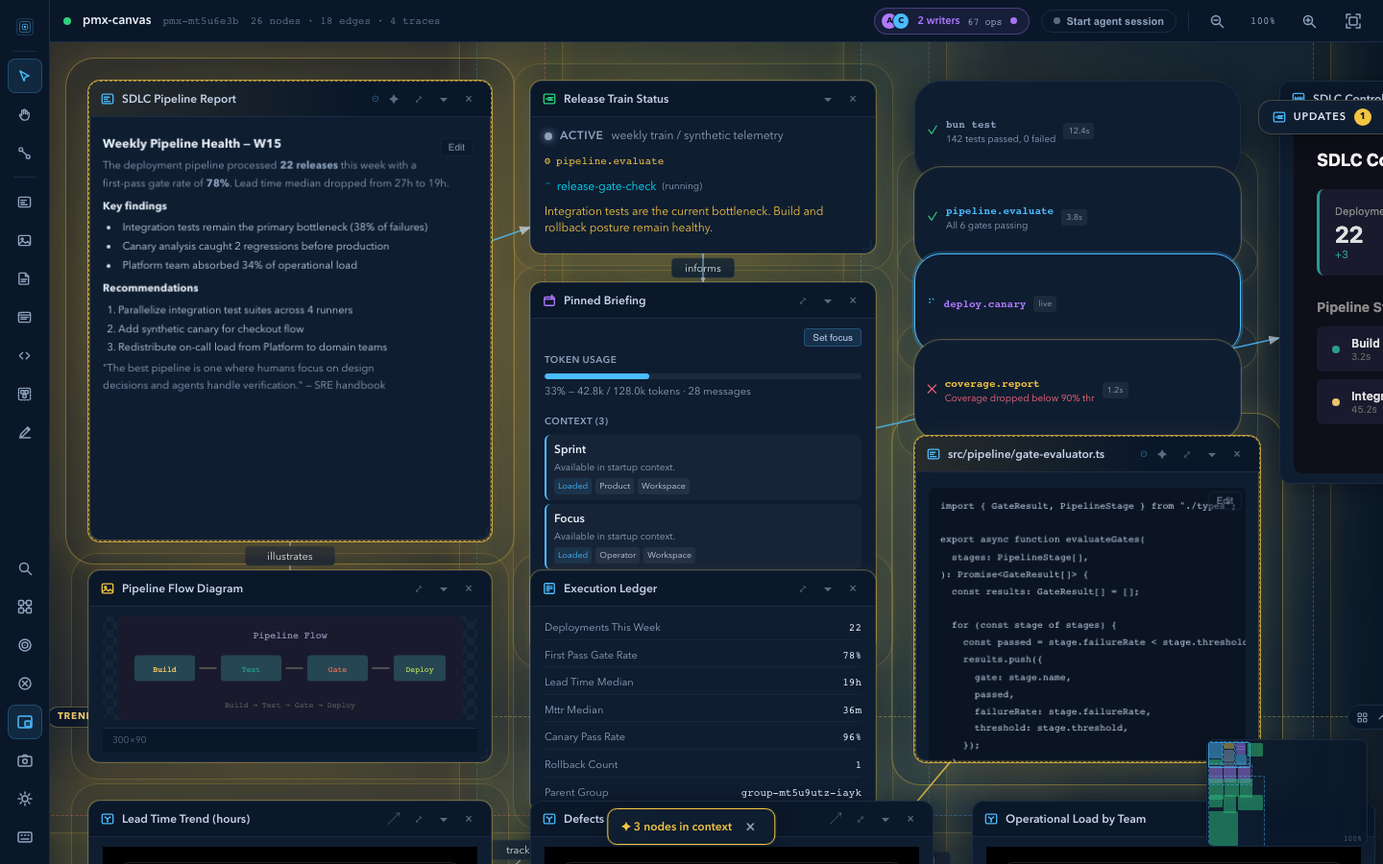
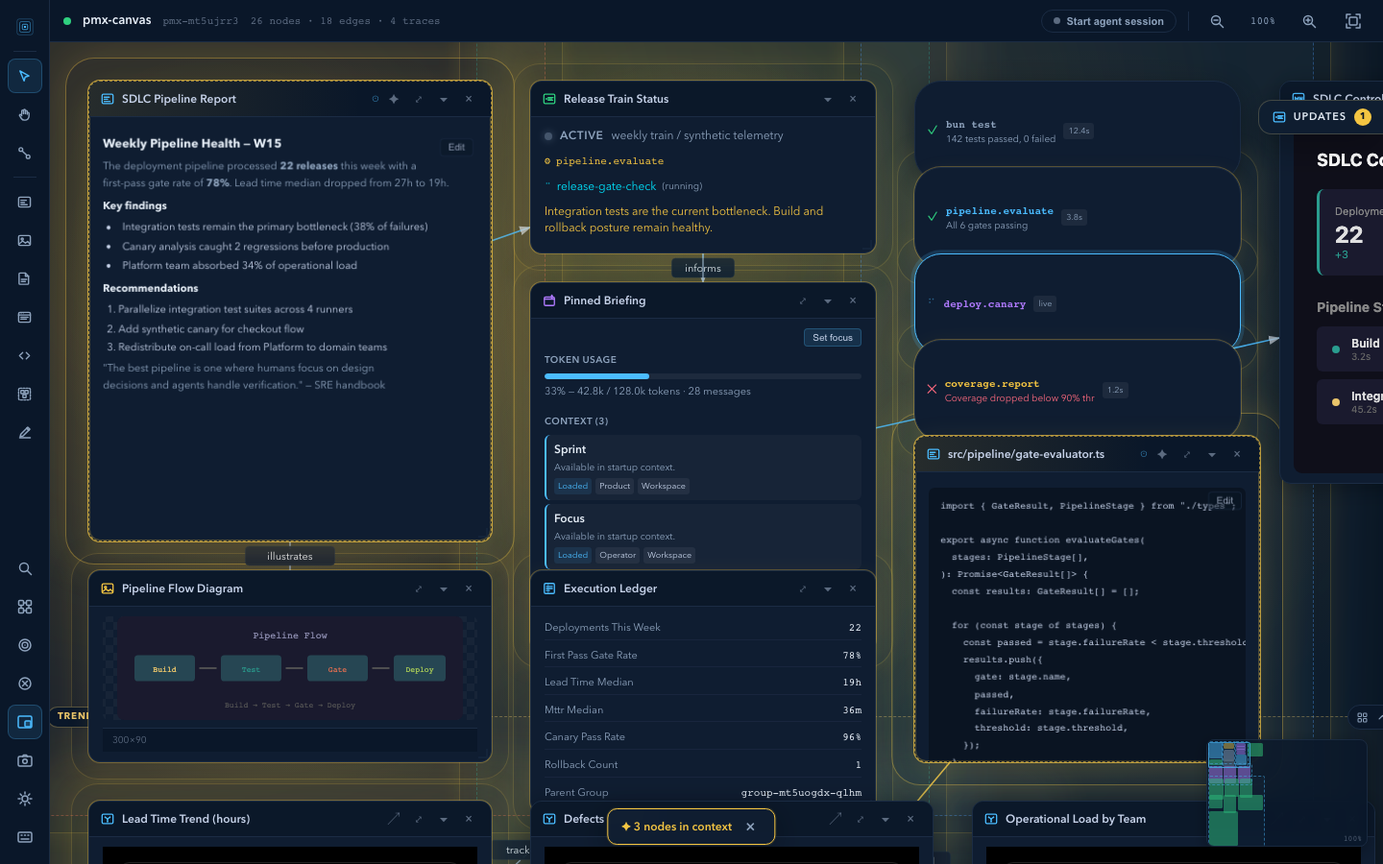
docs: skills refresh for the redesigned board (rail-chrome-v2 phase 9)
Every skill and contract doc now describes the board as it is after phases
1–8, so an agent reading a skill cold gets the current chrome and rules:

- skills/pmx-canvas/SKILL.md: operating step 6 is a short pointer to a new
  "Sessions & the human" section — the three board modes (quiet, external
  steering, focus session), what a session asks of the agent (detach for the
  receipt, 403 = scope fence, 409 = a human holds the node, held gates are
  non-approvals, your latest edit can be undone, where steering arrives) —
  and Browser Workflows rewritten for the selection bar, groups v2, the
  Connect tool, the History drawer, the minimap, the connection banner,
  human cursors and keyboard traversal.
- references/full-reference.md: the redesigned chrome, presence and groups
  selectors; nodes carry data-node-id now.
- pmx-canvas-orchestration: a Presence section (the orchestrator attaches,
  agentId per sub-agent, fence / 409 / held etiquette, the other places
  steering comes from).
- pmx-canvas-testing: presence and session e2e patterns (reset as the
  workbench, assert SSE frames as received, two-tab tests, what the Browser
  pane cannot drive).
- docs/mcp.md and docs/cli.md lose the last toolbar wording; CLAUDE.md and
  AGENTS.md gain human presence + the edit lock, the actor-tagged shared
  undo stack, and the moved kind-color record.

The demo fixture was regenerated through the API and the README screenshot
[…]

diff --git a/tests/e2e/showcase.pw.ts b/tests/e2e/showcase.pw.ts
@@ -6,9 +6,12 @@ import { expect, test, type APIRequestContext } from '@playwright/test';
 
 // ── Helpers ──────────────────────────────────────────────────
 
+/** The showcase seeds the board AS THE HUMAN: its writes must not read as an external agent. */
+const WORKBENCH = { 'x-pmx-workbench': '1' };
+
 async function clear(request: APIRequestContext): Promise<void> {
-  await request.post('/api/canvas/clear');
-  await request.post('/api/canvas/context-pins', { data: { nodeIds: [] } });
+  await request.post('/api/canvas/clear', { headers: WORKBENCH });
+  await request.post('/api/canvas/context-pins', { data: { nodeIds: [] }, headers: WORKBENCH });
 }
 
 type PwRequest = APIRequestContext;
@@ -32,7 +35,7 @@ async function postOrThrow<T extends Record<string, unknown>>(
   idField?: keyof T,
   context?: string,
 ): Promise<T> {
-  const r = await request.post(endpoint, { data: body });
+  const r = await request.post(endpoint, { data: body, headers: WORKBENCH });
   const payload = (await r.json()) as T & { ok?: boolean; error?: string };
   const idValue = idField ? (payload[idField] as unknown) : 'ok';
   const ok = r.ok() && (idField ? typeof idValue === 'string' && idValue.length > 0 : true);
@@ -55,7 +58,7 @@ async function addNode(request: PwRequest, body: Record<string, unknown>): Promi
 }
 
 async function patchNode(request: PwRequest, id: string, body: Record<string, unknown>): Promise<void> {
-  await request.patch(`/api/canvas/node/${id}`, { data: body });
+  await request.patch(`/api/canvas/node/${id}`, { data: body, headers: WORKBENCH });
 }
 
 async function addEdge(request: PwRequest, body: Record<string, unknown>): Promise<string> {
@@ -1026,6 +1029,7 @@ body { margin: 0; background: #0f0f1a; }
 
   await request.post('/api/canvas/context-pins', {
     data: { nodeIds: [article, codeFile, gateBoard] },
+    headers: WORKBENCH,
   });
 
   // ═══════════════════════════════════════════════════════════

diff --git a/skills/pmx-canvas/SKILL.md b/skills/pmx-canvas/SKILL.md
@@ -49,30 +49,11 @@ Humans curate agent context by pinning nodes; agents read that curation through
    floor, not a replacement: only an explicit signal gives the human a real pre-mutation veto
    window, your reasoning (`reason`), and staged multi-step previews. Batch and browser-human
    actions never auto-ghost.
-6. **Attach a session so the human can see you (0.4.8).** At the start of board work call
-   `canvas_ax_state { action: "set-presence", attached: true, label: "<who you are>" }` and at
-   the end `{ action: "set-presence", attached: false }`. While attached, the canvas shows your
-   cursor on the node you last touched plus a phase chip, and every write you make through MCP or
-   HTTP is attributed to your session automatically — no per-call labelling needed. The human
-   also gets a session panel listing your work items, approval gates (Approve / Reject live
-   there — a rejection reaches you as steering; an unanswered gate auto-holds after its TTL,
-   which is also a "do not proceed") and the timeline. The human may also fence you to a
-   region: writes outside `policy.scope` come back as 403 — ask, don't retry. A **409** on a
-   node write means a human is holding that node right now (dragging or editing): requeue the
-   change and retry in a moment; if you had signalled an intent on it, it was vetoed and a
-   `yield` event explains why. Report
-   `phase: "thinking"` before a long reasoning stretch if your host gives you a hook for it;
-   `tooling` is derived from your writes. Hosts with adapters (the Copilot extension) attach
-   for you. Without an attached session the board stays a plain canvas: your writes still show
-   as ghosts, but there is no cursor and no session chrome. Attaching over a non-empty board
-   saves a `Before session · …` snapshot, and detaching hands the human a receipt (work items
-   done / vetoed, a diff against that snapshot, one-click restore) — so always detach
-   explicitly rather than letting the session idle out. The human can also start a session
-   from the board's *Start agent session* button; your transport writes are then attributed
-   to it without any call on your side. Without a session your writes still reach the human:
-   the board shows a passive "external writers" indicator with an activity feed listing each
-   write under your label — identify yourself (`PMX_CANVAS_AGENT_SOURCE`, or `x-pmx-source` on
-   HTTP) so the feed and the writers sheet name you rather than the transport.
+6. **Attach a session so the human can see you (0.4.8+).** Start board work with
+   `canvas_ax_state { action: "set-presence", attached: true, label: "<who you are>" }` and end
+   it with `{ attached: false }` — detaching hands the human a receipt. Everything the session
+   gives you and asks of you (cursor + phase chip, the session panel, steering, the scope fence's
+   403s, the human edit lock's 409s, unattended approvals) is in **Sessions & the human** below.
 7. **Mutate through current composites.** Prefer the 16 composite MCP tools below.
 7. **Arrange and validate.** After batch changes, use `canvas_view { action: "arrange" }` when
    appropriate and always finish with `canvas_query { action: "validate" }`.
@@ -256,6 +237,47 @@ Do not confuse context pinning with **Lock position**, which only excludes a nod
 Every node type, including `status`, can be removed through `canvas_node { action: "remove" }`, the
 title-bar × control, or the **Close** context-menu action.
 
+## Sessions & the human
+
+The board has three modes, all gated on one fact — whether a session is attached:
+
+- **Quiet board** (nobody attached, nobody writing): a plain canvas. Your writes still show as
+  ghosts, nothing else changes.
+- **External steering** (you write with no session attached): the top bar shows a passive
+  writers indicator with an activity feed listing each write under your label, plus a
+  connected-writers sheet. Identify yourself (`PMX_CANVAS_AGENT_SOURCE`, or `x-pmx-source` on
+  HTTP) so the feed names you, not the transport. Pending explicit intents carry an inline Veto
+  there.
+- **Focus session** (attached): your cursor sits on the node you last touched with a phase chip
+  (`idle` / `thinking` / `tooling` / `waiting-approval`); every MCP/HTTP write is attributed to
+  your session automatically (pass `agentId` only to keep a sub-agent separate); the human gets
+  the session panel (work items, approval gates, timeline of your tool runs, board writes,
+  evidence and steering), a command bar that posts steering you read on your next turn, and a
+  context-budget meter. Report `phase: "thinking"` before a long reasoning stretch if your host
+  gives you a hook; `tooling` is derived from your writes. Hosts with adapters (the Copilot
+  extension) attach for you; the human can also start a session from the board's *Start agent
+  session* button and your transport writes are attributed to it.
+
+What the session asks of you:
+
+- **Detach explicitly** (`attached: false` or a `session-end` activity). Attaching over a
+  non-empty board saved a `Before session · …` snapshot; detaching emits the receipt (items
+  done / vetoed, a diff against that snapshot, one-click restore) — an idle timeout delays it.
+- **403 = outside the scope fence.** The human may fence you to a region (`policy.scope`): writes
+  outside it are refused with a reason naming the node or position. Read `policy.scope` in
+  `canvas://ax-context`, ask the human to widen it, never retry blindly. The fence is the
+  human's: `set-policy` does not take `scope`.
+- **409 = a human is holding that node** (dragging or editing it right now). Requeue the change
+  and retry in a moment. If you had signalled an intent on it, it was vetoed — a `yield` timeline
+  event says who took over.
+- **A gate you do not answer auto-holds** (`held`, default TTL 5 min). `held` is a non-approval:
+  do not proceed; the human can reopen it from the panel. A rejection reaches you as steering.
+- **Your latest edit can be undone from the panel.** One shared undo stack: when the human undoes
+  it you get steering ("Undid your edit: …"); treat the board as the truth, not your last write.
+- **Steering arrives as `steering-message` rows** in `canvas://ax-timeline` (or claim them via
+  `canvas_ax_delivery`). The command bar, gate rejections, undo and take-overs all speak through
+  it.
+
 ## Browser Workflows
 
 Use the visible workbench when the human is actively curating layout:
@@ -263,21 +285,42 @@ Use the visible workbench when the human is actively curating layout:
 - Drag nodes to move them.
 - Drag empty space to lasso-select (Select tool, the default); hold Space or pick the rail's Pan
   tool to pan instead — the Pan tool pans even when the drag starts on a node.
-- Use the selection bar for Pin as context, Group, Connect, and Clear.
+- The selection bar (floating bottom-center) offers count, align left/top, distribute,
+  auto-arrange, Group (G), Connect, Pin as context, delete and clear; selected nodes show an
+  accent outline with corner handles.
 - Right-click a node for context pinning, position locking, focus, collapse, connect, refresh,
   open, close, and type-specific actions.
-- Drop files or URLs to create matching nodes.
+- Drop files or URLs to create matching nodes; an empty board shows starter actions (new note,
+  pick files, paste a link, start an agent session).
 - Double-click markdown to edit inline.
-- Use rail snapshots (camera button in the left tool rail) before experiments and restore only after confirmation.
-- The chrome is a persistent 52px left tool rail plus a slim 44px top bar (0.4.8, replacing the
-  floating HUD). The rail carries the tools (Select V, Pan Space), node creation (markdown M,
-  image I, file Shift+F, webpage W, HTML surface H, group G, annotate A — a popover with draw /
-  text / eraser), and utilities: search (Cmd+K), arrange, trace, minimap, snapshots, the theme
-  picker (nine themes: dark, light, high-contrast, midnight, sepia, arctic, ember, forest, volt),
-  and shortcuts (?). The top bar holds the connection dot, workspace title, and the zoom cluster
+- **Groups** are frames with the name pill and an action cluster (auto-arrange children, collapse,
+  ⋯ rename / ungroup / pin all) on the top edge. Membership changes only on release while the
+  "release to add to <group>" pill shows (Esc keeps it out); dragging a child fully out offers
+  "release to remove". A collapsed group is a chip that hides its children (edges to them draw
+  to the chip). G groups the selection, Shift+G ungroups.
+- **Edges**: drag from a node port, or pick the rail's Connect tool (C) and drag from anywhere on
+  a node; the target lights up, Esc cancels, L asks for a label on release.
+- The **History** drawer (rail camera button, or the receipt's Full log) lists snapshots and
+  agent sessions in one timeline; save a snapshot there before experiments and restore only after
+  confirmation. Ctrl/Cmd+Z and Shift+Z work the shared undo stack.
+- The **minimap** (bottom-right of the canvas) is a true-scale map; hover magnifies it, click
+  jumps, drag pans. A banner under the top bar reports a dropped stream (reconnecting) or a
+  post-reconnect resync; edits still save over HTTP meanwhile.
+- Other open tabs appear as green cursors with a name tag (`/workbench?name=mia` sets yours);
+  a node you drag is locked for agents until you release it.
+- The chrome is a persistent 52px left tool rail plus a slim 44px top bar (0.4.8+). The rail
+  carries the tools (Select V, Pan Space, Connect C), node creation (markdown M, image I, file
+  Shift+F, webpage W, HTML surface H, group G, annotate A — a popover with draw / text / eraser),
+  and utilities: search & commands (Cmd+K — actions with shortcuts, then jump-to-node), arrange,
+  trace, minimap, history, the theme picker (nine themes: dark, light, high-contrast, midnight,
+  sepia, arctic, ember, forest, volt), and shortcuts (?). The top bar holds the connection dot,
+  workspace title, the session chip / gate badge / context meter while a session is attached
+  (or the external-writers indicator and *Start agent session* otherwise), and the zoom cluster
   (zoom out, % label = reset, zoom in, fit F). Every rail button's `title` names its shortcut.
-  On viewports ≤1180px the top bar drops its meta text (board id, counts); every control stays in
-  the rail at any width — there is no separate mobile menu.
+  On viewports ≤1180px the top bar drops its meta text and the session panel becomes a drawer;
+  every control stays in the rail at any width — there is no separate mobile menu.
+- Keyboard: nodes are focusable — arrow keys move to the nearest node, Enter opens it in focus
+  mode (a scrim + inset view with Open in tab), Esc closes the top-most overlay.
 - Embedding hosts can open `/workbench?theme=<name>` (or `?theme=auto` to follow the host's
   light/dark appearance) for a session-local default theme that never changes the server-global
   theme other clients see; an explicit pick from the theme menu ends the override. The bundled

diff --git a/AGENTS.md b/AGENTS.md
@@ -287,7 +287,9 @@ Neutral, agent-agnostic agent-experience primitives. The core never imports a ho
 
 Approval gates implement PMX approvals first (`pending → approved/rejected/held`); host permission hooks are mapped only where low-risk. **Unattended-approval policy** (`src/server/ax-gate-ttl.ts`): every gate carries `expiresAt` (`ttlMs`, default `PMX_CANVAS_GATE_TTL_MS` = 5 min); a 1s sweeper started with the server resolves unanswered gates to `held` (non-approval), records a `policy` agent-event, and re-emits presence; `POST /api/canvas/ax/approval/:id/reopen` (HTTP/SDK only — a human action) restarts the clock. **Scope fence** (`src/server/scope-fence.ts`): `policy.scope = { nodeIds, padding }` makes `executeOperation` refuse agent-originated mutations outside the fence with 403 (`meta.fromWorkbench` exempts the human; batch inner ops are always agent writes, so the fence cannot be keyed on `suppressAutoGhost`); unknown mutating ops are refused under a fence by default — add new layout ops to `checkScopeFence`.
 
-- **Agent presence** (`src/server/agent-presence.ts`, shape in `src/shared/agent-presence.ts`): in-memory and TTL-swept like `IntentRegistry`, never persisted. Derived from feeds that already exist — every agent-originated mutation through `executeOperation` (no `x-pmx-workbench` marker) touches its caller as `tooling`; `ax.activity.ingest` kinds `session-start`/`session-end` attach/detach and `tool-start`/`tool-result` drive the phase; `POST /api/canvas/ax/presence` (`canvas_ax_state { action: "set-presence" }`) is the explicit path for `thinking`, cursor, focus. Transport-labelled writes (`api`/`mcp`/`sdk`/`cli`, no `agentId`) are **attributed to the single attached session** so one agent writing through MCP keeps one cursor; identified writers and multi-session boards stay separate. One `agent-presence` SSE frame carries the full snapshot on every change including expiry. **`sessionActive` (any attached presence) is the single gate for all agent chrome** — the quiet board must stay byte-clean of agent surfaces when it is false. Plan: `design/rail-chrome-v2/PLAN.md`.
+- **Agent presence** (`src/server/agent-presence.ts`, shape in `src/shared/agent-presence.ts`): in-memory and TTL-swept like `IntentRegistry`, never persisted. Derived from feeds that already exist — every agent-originated mutation through `executeOperation` (no `x-pmx-workbench` marker) touches its caller as `tooling`; `ax.activity.ingest` kinds `session-start`/`session-end` attach/detach and `tool-start`/`tool-result` drive the phase; `POST /api/canvas/ax/presence` (`canvas_ax_state { action: "set-presence" }`) is the explicit path for `thinking`, cursor, focus. Transport-labelled writes (`api`/`mcp`/`sdk`/`cli`, no `agentId`) are **attributed to the single attached session** so one agent writing through MCP keeps one cursor; identified writers and multi-session boards stay separate. One `agent-presence` SSE frame carries the full snapshot on every change including expiry, and it also carries `activity` — the last 50 agent writes with a `describeWrite` summary (the External Steering feed and the session panel's Update rows). An explicit `attached: false` removes the presence outright (an ended session never lingers as an external writer). **`sessionActive` (any attached presence) is the single gate for all agent chrome** — the quiet board must stay byte-clean of agent surfaces when it is false. Plan: `design/rail-chrome-v2/PLAN.md`.
+- **Human presence + user wins** (`src/server/human-presence.ts`, shape in `src/shared/human-presence.ts`): every open workbench tab heartbeats `POST /api/canvas/human-presence` (cursor, name, `grabbingNodeId`); one `human-presence` SSE frame per change. A held node is an **edit lock**: `executeOperation` refuses an agent write to it with 409 until release or the 8 s grab TTL, and the client vetoes a pending explicit intent on a grabbed node and records a `yield` timeline event. Human heartbeats are in `PRESENCE_EXEMPT_OPS` — they must never count as agent activity.
+- **Shared undo stack with actors** (`mutation-history.ts`): `executeOperation` tags every recorded entry `human` (workbench marker) or `agent`; `GET /api/canvas/history` exposes `top`. The session panel offers undo only while an agent edit tops the stack and posts steering when the human takes it. SDK writes bypass the registry and default to `agent`.
 
 Additional canvas-bound primitives: `elicitation` (request structured human input → respond), `mode-request` (request a plan/execute/autonomous transition → resolve), and a single `policy` singleton (tool/prompt policy: `tools.allowed|excluded|approvalRequired`, `prompt.systemAppend|mode`). All snapshot/restore with the rest of `PmxAxState` and are read via `canvas_ax_state { action: "get" }` / `canvas://ax-work` / `canvas://ax-context`.
 
@@ -381,7 +383,8 @@ When file nodes are on the canvas, the system auto-detects import dependencies a
 2. Create a renderer component in `src/client/nodes/YourNode.tsx`
 3. Add the case to the render switches in `src/client/canvas/CanvasViewport.tsx` AND
    `ExpandedNodeOverlay.tsx`, plus the exhaustive records in `state/node-factory.ts` and
-   `canvas/Minimap.tsx`, `types.ts` (union, `TYPE_LABELS`, `EXPANDABLE_TYPES`), `icons.tsx`
+   `canvas/kind-colors.ts` (the minimap + group chips read it), `types.ts` (union, `TYPE_LABELS`,
+   `EXPANDABLE_TYPES`), `icons.tsx`
 4. **Add the type to `isCanvasNodeType` in `src/client/state/sse-bridge.ts`** — this runtime
    guard silently DROPS unknown types during layout apply, so a missed entry renders nothing
    in the live workbench even though every unit/client test passes

diff --git a/CLAUDE.md b/CLAUDE.md
@@ -287,7 +287,9 @@ Neutral, agent-agnostic agent-experience primitives. The core never imports a ho
 
 Approval gates implement PMX approvals first (`pending → approved/rejected/held`); host permission hooks are mapped only where low-risk. **Unattended-approval policy** (`src/server/ax-gate-ttl.ts`): every gate carries `expiresAt` (`ttlMs`, default `PMX_CANVAS_GATE_TTL_MS` = 5 min); a 1s sweeper started with the server resolves unanswered gates to `held` (non-approval), records a `policy` agent-event, and re-emits presence; `POST /api/canvas/ax/approval/:id/reopen` (HTTP/SDK only — a human action) restarts the clock. **Scope fence** (`src/server/scope-fence.ts`): `policy.scope = { nodeIds, padding }` makes `executeOperation` refuse agent-originated mutations outside the fence with 403 (`meta.fromWorkbench` exempts the human; batch inner ops are always agent writes, so the fence cannot be keyed on `suppressAutoGhost`); unknown mutating ops are refused under a fence by default — add new layout ops to `checkScopeFence`.
 
-- **Agent presence** (`src/server/agent-presence.ts`, shape in `src/shared/agent-presence.ts`): in-memory and TTL-swept like `IntentRegistry`, never persisted. Derived from feeds that already exist — every agent-originated mutation through `executeOperation` (no `x-pmx-workbench` marker) touches its caller as `tooling`; `ax.activity.ingest` kinds `session-start`/`session-end` attach/detach and `tool-start`/`tool-result` drive the phase; `POST /api/canvas/ax/presence` (`canvas_ax_state { action: "set-presence" }`) is the explicit path for `thinking`, cursor, focus. Transport-labelled writes (`api`/`mcp`/`sdk`/`cli`, no `agentId`) are **attributed to the single attached session** so one agent writing through MCP keeps one cursor; identified writers and multi-session boards stay separate. One `agent-presence` SSE frame carries the full snapshot on every change including expiry. **`sessionActive` (any attached presence) is the single gate for all agent chrome** — the quiet board must stay byte-clean of agent surfaces when it is false. Plan: `design/rail-chrome-v2/PLAN.md`.
+- **Agent presence** (`src/server/agent-presence.ts`, shape in `src/shared/agent-presence.ts`): in-memory and TTL-swept like `IntentRegistry`, never persisted. Derived from feeds that already exist — every agent-originated mutation through `executeOperation` (no `x-pmx-workbench` marker) touches its caller as `tooling`; `ax.activity.ingest` kinds `session-start`/`session-end` attach/detach and `tool-start`/`tool-result` drive the phase; `POST /api/canvas/ax/presence` (`canvas_ax_state { action: "set-presence" }`) is the explicit path for `thinking`, cursor, focus. Transport-labelled writes (`api`/`mcp`/`sdk`/`cli`, no `agentId`) are **attributed to the single attached session** so one agent writing through MCP keeps one cursor; identified writers and multi-session boards stay separate. One `agent-presence` SSE frame carries the full snapshot on every change including expiry, and it also carries `activity` — the last 50 agent writes with a `describeWrite` summary (the External Steering feed and the session panel's Update rows). An explicit `attached: false` removes the presence outright (an ended session never lingers as an external writer). **`sessionActive` (any attached presence) is the single gate for all agent chrome** — the quiet board must stay byte-clean of agent surfaces when it is false. Plan: `design/rail-chrome-v2/PLAN.md`.
+- **Human presence + user wins** (`src/server/human-presence.ts`, shape in `src/shared/human-presence.ts`): every open workbench tab heartbeats `POST /api/canvas/human-presence` (cursor, name, `grabbingNodeId`); one `human-presence` SSE frame per change. A held node is an **edit lock**: `executeOperation` refuses an agent write to it with 409 until release or the 8 s grab TTL, and the client vetoes a pending explicit intent on a grabbed node and records a `yield` timeline event. Human heartbeats are in `PRESENCE_EXEMPT_OPS` — they must never count as agent activity.
+- **Shared undo stack with actors** (`mutation-history.ts`): `executeOperation` tags every recorded entry `human` (workbench marker) or `agent`; `GET /api/canvas/history` exposes `top`. The session panel offers undo only while an agent edit tops the stack and posts steering when the human takes it. SDK writes bypass the registry and default to `agent`.
 
 Additional canvas-bound primitives: `elicitation` (request structured human input → respond), `mode-request` (request a plan/execute/autonomous transition → resolve), and a single `policy` singleton (tool/prompt policy: `tools.allowed|excluded|approvalRequired`, `prompt.systemAppend|mode`). All snapshot/restore with the rest of `PmxAxState` and are read via `canvas_ax_state { action: "get" }` / `canvas://ax-work` / `canvas://ax-context`.
 
@@ -381,7 +383,8 @@ When file nodes are on the canvas, the system auto-detects import dependencies a
 2. Create a renderer component in `src/client/nodes/YourNode.tsx`
 3. Add the case to the render switches in `src/client/canvas/CanvasViewport.tsx` AND
    `ExpandedNodeOverlay.tsx`, plus the exhaustive records in `state/node-factory.ts` and
-   `canvas/Minimap.tsx`, `types.ts` (union, `TYPE_LABELS`, `EXPANDABLE_TYPES`), `icons.tsx`
+   `canvas/kind-colors.ts` (the minimap + group chips read it), `types.ts` (union, `TYPE_LABELS`,
+   `EXPANDABLE_TYPES`), `icons.tsx`
 4. **Add the type to `isCanvasNodeType` in `src/client/state/sse-bridge.ts`** — this runtime
    guard silently DROPS unknown types during layout apply, so a missed entry renders nothing
    in the live workbench even though every unit/client test passes

diff --git a/skills/pmx-canvas/references/full-reference.md b/skills/pmx-canvas/references/full-reference.md
@@ -132,8 +132,8 @@ pmx-canvas --theme=light       # Light theme
 pmx-canvas --version           # Print installed version and exit
 ```
 
-`--theme` accepts `dark` (default), `light`, `high-contrast`, `midnight`, `sepia`, `arctic`, `ember`, `forest`, or `volt` (0.4.x; the browser toolbar has a matching theme picker). Same value can be set via
-the `PMX_CANVAS_THEME` environment variable, or toggled live in the browser toolbar.
+`--theme` accepts `dark` (default), `light`, `high-contrast`, `midnight`, `sepia`, `arctic`, `ember`, `forest`, or `volt` (0.4.x; the rail's theme picker lists the same nine). Same value can be set via
+the `PMX_CANVAS_THEME` environment variable, or picked live from the left tool rail.
 
 Start the canvas once per session, then reuse it. Use `--no-open` when running as an agent — the
 human can open the browser URL themselves.
@@ -827,10 +827,20 @@ Useful workbench selectors:
 - Annotations: `.annotation-layer path` renders human-drawn freehand ink. Use WebView
   to inspect or screenshot annotation shapes; MCP/context resources only expose compact
   annotation target summaries, not the raw visual shape. Humans can remove marks with
-  the eraser toolbar button; agents can remove a known annotation ID with
+  the eraser in the rail's Annotate popover; agents can remove a known annotation ID with
   `canvas_view { action: "remove-annotation" }`.
-- Canvas chrome: `.hud-layer`, `.canvas-toolbar`, `.connection-dot`, `.canvas-bootstrap-card`
-- Nodes do not expose stable `data-node-id` attributes. Use `canvas_query` (`layout` / `search`) or MCP resource data for exact node IDs.
+- Canvas chrome (rail-chrome-v2): `.tool-rail`, `.top-bar` (`.connection-dot`, `.agent-chip`,
+  `.gate-badge`, `.context-budget`, `.external-indicator`, `.start-session-btn`),
+  `.connection-banner`, `.canvas-region`, `.session-panel`, `.command-bar`, `.selection-bar`,
+  `.activity-feed`, `.writers-sheet`, `.session-receipt`, `.snapshot-panel` (the History
+  drawer), `.minimap`, `.empty-state`, `.command-palette`, `.expanded-overlay-panel`.
+- Presence: `.agent-cursor` (attached agent), `.human-cursor` (other tabs), `.scope-fence`,
+  `.canvas-node.agent-mutating` (shimmer), `.node-yield-pill`.
+- Groups: `.canvas-node.group-node` with `.group-name-pill`, `.group-actions`, `.group-chip`
+  (collapsed); `.drop-pill` while a dragged node would join/leave a group; `.edge-hint-pill`
+  during an edge drag.
+- Every `.canvas-node` carries `data-node-id` and `data-node-type` (rail-chrome redesign); `canvas_query`
+  (`layout` / `search`) remains the reliable way to get ids without a browser.
 
 Async script example:
 

diff --git a/skills/pmx-canvas-orchestration/SKILL.md b/skills/pmx-canvas-orchestration/SKILL.md
@@ -24,6 +24,23 @@ it, or the board silently diverges from reality.
   their run scoping comes from the run-prefixed `agentId`, e.g. `run7:impl-auth`), so
   consecutive orchestrations don't interleave in the bounded timeline.
 
+## Presence (rail-chrome-v2)
+
+- The ORCHESTRATOR attaches the session: `canvas_ax_state { action: "set-presence",
+  attached: true, label: "<run label>" }` at run start and `{ attached: false }` at the end
+  (the human gets a receipt: items done / vetoed, a diff against the pre-run snapshot, one-click
+  restore). Subagents never attach — writes they make through MCP/HTTP with no `agentId` are
+  attributed to the orchestrator's session; a subagent that passes `agentId` shows as its own
+  writer. Pick one: a single cursor for the run (no `agentId` on board writes) or one per
+  subagent (`agentId` everywhere, also in the writers sheet).
+- The board may be fenced (`policy.scope`). A 403 from any participant means "outside the
+  fence": report it to the orchestrator, who asks the human — never widen it yourself (the
+  fence is the human's; `set-policy` cannot set it).
+- A 409 means a human is holding that node right now: requeue that step's write and retry
+  after the next steering poll. A `yield` timeline event names who took over.
+- Unanswered gates auto-hold (`held`) after their TTL: treat `held` as "do not proceed" and
+  keep the subagent's step `blocked` until the human reopens and answers.
+
 ## Graph semantics
 
 - `flow` edges = planned sequence. `depends-on` edges = blocking dependency (the visual DAG).
@@ -62,6 +79,10 @@ it, or the board silently diverges from reality.
   targeted at their own `agentId`.
 - Mark delivery ONLY after acting on the message. The mark is compare-and-set: a
   `delivered:false` response means another consumer owned it — drop it, do not act twice.
+- Steering comes from more places than the command bar: a gate rejection, the human undoing
+  one of your board edits ("Undid your edit: …"), a take-over of a node you were editing, and
+  vetoed ghost intents all arrive as steering. The orchestrator re-routes them to the subagent
+  whose node they name.
 
 ## Run lifecycle
 

diff --git a/design/rail-chrome-v2/PLAN.md b/design/rail-chrome-v2/PLAN.md
@@ -247,7 +247,20 @@ is a visible element on today's board that does not yet match the prototypes.
   cursor ("release to connect · esc cancels · L labels"), Esc cancels, L asks for a label on
   release. The preview curve now draws on a board with no edges yet (it did not).
 
-### Phase 9 — Skills refresh (last; closes the redesign)
+### Phase 9 — Skills refresh (last; closes the redesign) — BUILT
+Done 2026-08-23: `skills/pmx-canvas/SKILL.md` gained a consolidated **Sessions & the human**
+section (the three board modes, what a session asks of the agent: detach, 403 fence, 409 edit
+lock, held gates, undo steering, where steering arrives) and a browser-workflows rewrite for the
+redesigned chrome (selection bar, groups v2, edges + Connect tool, History drawer, minimap,
+connection banner, human cursors, keyboard); `references/full-reference.md` got the new chrome
+and presence selectors (and `data-node-id`); the orchestration skill gained a Presence section
+(who attaches, agentId per sub-agent, fence/409/held etiquette, where steering comes from); the
+testing skill gained the presence/e2e patterns; `docs/mcp.md` / `docs/cli.md` lost the last
+toolbar wording; `docs/http-api.md` documents human presence, the history actors and the
+session lifecycle; CLAUDE.md/AGENTS.md describe human presence, the edit lock and the actor-
+tagged undo stack. The demo fixture was regenerated through the API and the README screenshot
+re-taken with the showcase seeding the board as the human (its writes no longer read as an
+external agent). The 22-tool / 14-resource MCP counts are unchanged (pinned by tests).
 Bring every skill in the repo up to date with everything the phases changed, so an agent
 reading a skill cold gets the board as it is now, not as it was in 0.4.7:
 - `skills/pmx-canvas/SKILL.md` + `references/full-reference.md`: presence/session lifecycle

diff --git a/skills/pmx-canvas-testing/SKILL.md b/skills/pmx-canvas-testing/SKILL.md
@@ -157,3 +157,20 @@ Before marking work done, report:
 
 For non-trivial changes, the default expectation is `bun run test:all` unless there is a clear
 reason to scope verification more narrowly.
+
+## Presence, sessions, and the redesigned chrome (rail-chrome-v2)
+
+- Agent/human presence is in-memory and TTL-swept. An e2e reset must detach any attached
+  session (`POST /api/canvas/ax/presence { attached: false }` per attached presence), clear the
+  scope fence, and mark its own writes with `x-pmx-workbench: 1` — otherwise the harness reads
+  as an external writer and a leftover fence refuses the next test's `clear`. Unattached writers
+  from earlier tests can still be live (90 s): assert about YOUR writers, not exact totals.
+- Assert SSE frames as received (`readSseEvent` in `tests/unit/agent-presence-api.test.ts`), not
+  the object handed to the emitter — the envelope overwrites `sessionId` and `timestamp`.
+- Two-tab behaviour (human cursors, the edit lock) needs two browser contexts; name them with
+  `/workbench?name=…` so assertions can target a cursor by its tag.
+- The Browser pane reports `visibility: hidden` and never fires rAF: drags, drop pills, edge
+  previews and presence animations only work under Playwright. Use the pane for static checks.
+- Selection is shift-click on the node BODY (the titlebar drags); groups have no ports and
+  their drag handle is the edge row; the selection bar and command bar both float bottom-center
+  (the selection bar lifts during a session).

diff --git a/docs/mcp.md b/docs/mcp.md
@@ -277,8 +277,8 @@ keep annotation context compact: agents see annotation counts, bounds, and targe
 summaries such as the node or empty canvas region that was marked, but not the
 raw stroke geometry or visual shape.
 
-Annotations are a browser-visible markup layer. Use the pen toolbar button to
-draw and the eraser toolbar button to remove an annotation again; agents can also
+Annotations are a browser-visible markup layer. Humans draw with the rail's
+Annotate popover (pen / text / eraser — the eraser removes a mark); agents can also
 remove a known annotation ID with `canvas_view { action: "remove-annotation", id }`.
 
 Use WebView automation when an agent needs to actually see annotations as drawn.

diff --git a/docs/cli.md b/docs/cli.md
@@ -281,7 +281,7 @@ reports annotation targets and bounds; it does not describe whether the human
 drew an arrow, line, circle, or other shape. Inspect `.annotation-layer path` or
 take a screenshot when the drawn form matters.
 
-Humans draw with the pen toolbar button and remove marks with the eraser button.
+Humans draw with the rail's Annotate popover (pen / text) and remove marks with its eraser.
 If an agent already knows the annotation ID from context, it can remove it through
 MCP with `canvas_view { action: "remove-annotation", id }`.
 
